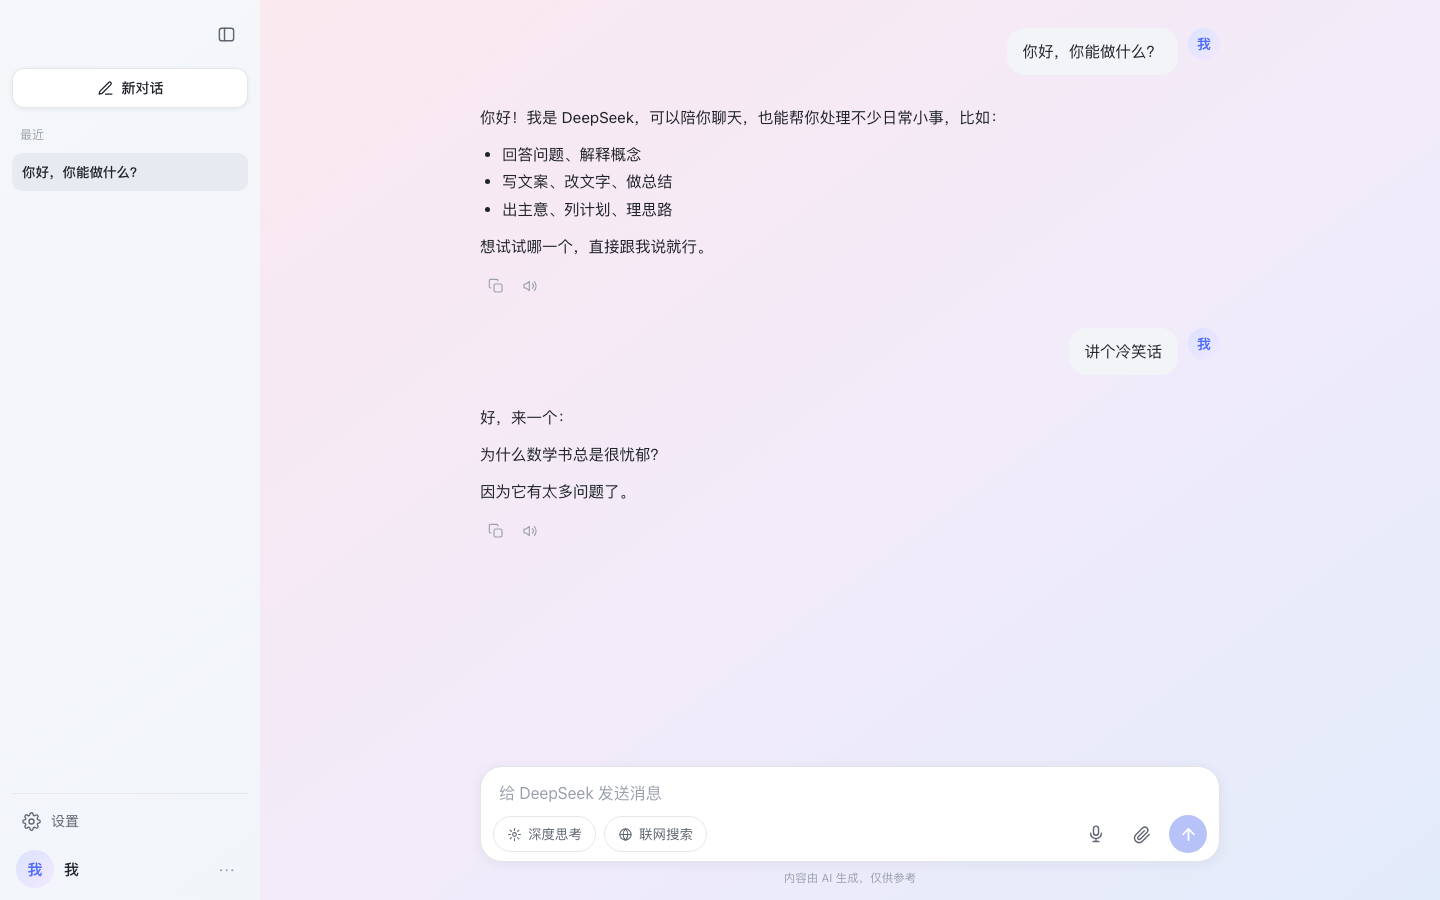
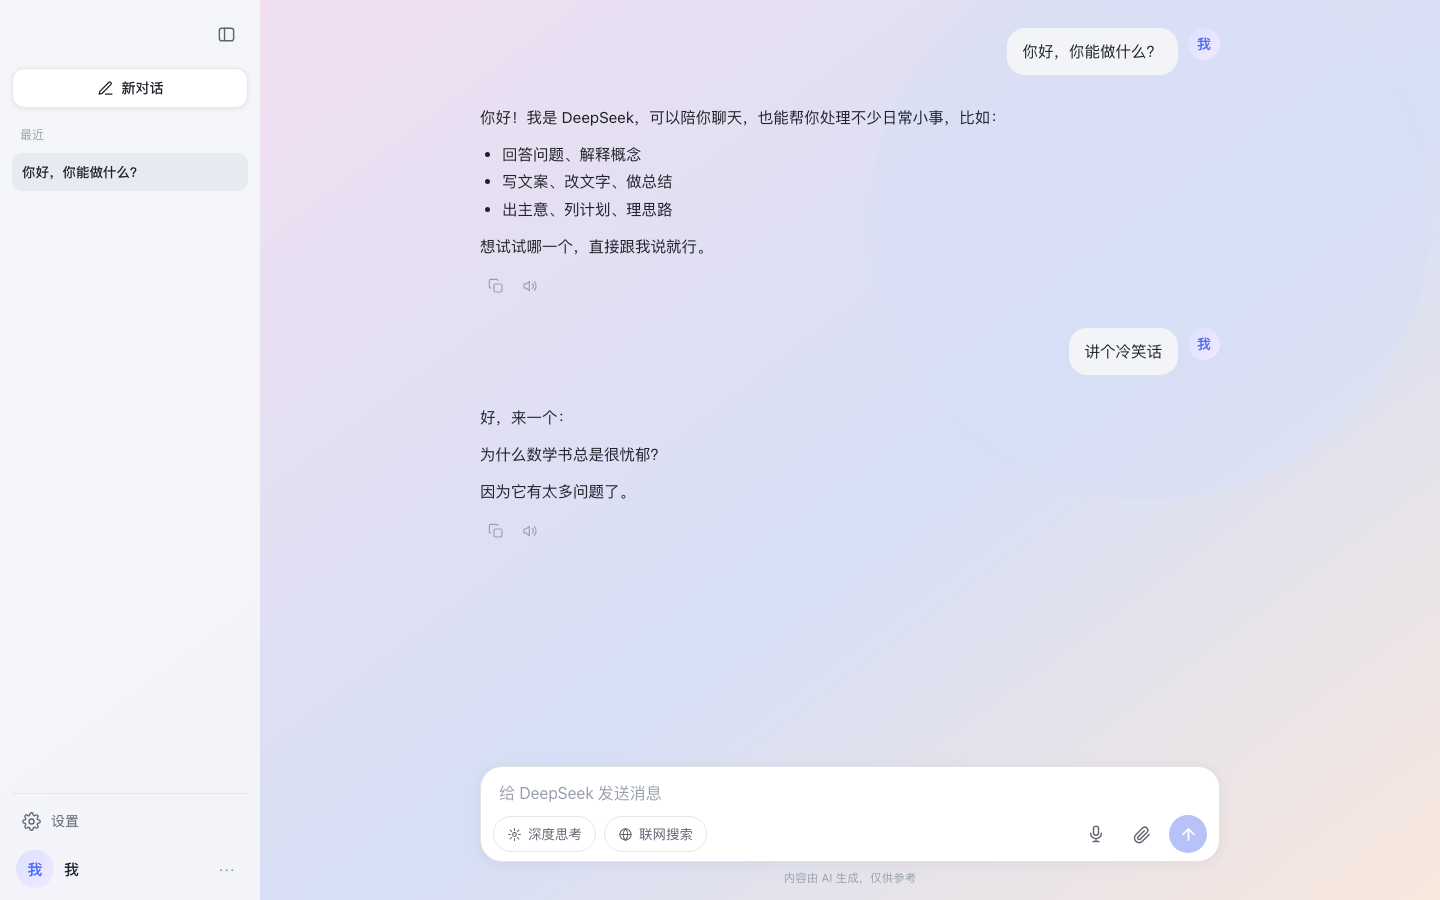
Add bubble colors, glass effect and welcome screen

Changed region(s): [[0.1562, 0.0, 1.0, 1.0], [0.8438, 0.84, 1.0, 1.0]]

diff --git a/index.html b/index.html
@@ -17,7 +17,7 @@
         --sb-bg:#f8f9fb; --sb-hover:#eef0f4; --sb-active:#e7eaf1;
         --bg:#ffffff; --text:#1f2329; --text-2:#5f6570; --text-3:#9aa0ab;
         --border:#e6e7eb; --bubble:#f3f4f8; --composer-border:#e3e4e8;
-        --veil:rgba(255,255,255,.42); --sb-veil:rgba(248,249,251,.9); --modal-bg:#ffffff; --input-bg:#ffffff;
+        --veil:rgba(255,255,255,.42); --sb-veil:rgba(248,249,251,.9); --modal-bg:#ffffff; --input-bg:#ffffff; --composer-bg:#ffffff;
         --danger:#f23f42; --shadow:0 12px 40px rgba(20,24,60,.14);
         --msg-font:15.5px;
       }
@@ -30,7 +30,7 @@
         --sb-bg:#17181c; --sb-hover:#22242a; --sb-active:#26282f;
         --bg:#1d1e23; --text:#e8e9ec; --text-2:#a6abb6; --text-3:#6f7580;
         --border:#2e3038; --bubble:#26272e; --composer-border:#34353d;
-        --veil:rgba(20,20,24,.43); --sb-veil:rgba(23,24,28,.92); --modal-bg:#23242a; --input-bg:#1b1c20;
+        --veil:rgba(20,20,24,.43); --sb-veil:rgba(23,24,28,.92); --modal-bg:#23242a; --input-bg:#1b1c20; --composer-bg:#23242a;
         --blue-soft:#26305c; --shadow:0 12px 40px rgba(0,0,0,.5);
       }
       body.fs-small{ --msg-font:14px; } body.fs-large{ --msg-font:17px; }
@@ -134,7 +134,7 @@
       .err-text{ color:var(--danger); }
 
       /* ============ Composer ============ */
-      #composer{ width:100%; background:var(--modal-bg); border:1px solid var(--composer-border); border-radius:22px; box-shadow:0 2px 14px rgba(30,35,70,.06); padding:12px 12px 8px; }
+      #composer{ width:100%; background:var(--composer-bg); border:1px solid var(--composer-border); border-radius:22px; box-shadow:0 2px 14px rgba(30,35,70,.06); padding:12px 12px 8px; }
       #attachPreview{ display:none; flex-wrap:wrap; gap:8px; padding:0 4px 8px; }
       #attachPreview.on{ display:flex; }
       .att-chip{ position:relative; width:58px; height:58px; border-radius:12px; overflow:hidden; border:1px solid var(--border); }
@@ -163,7 +163,7 @@
       /* ============ Settings modal ============ */
       #overlay{ position:fixed; inset:0; background:rgba(28,30,40,.45); backdrop-filter:blur(3px); z-index:50; display:none; align-items:center; justify-content:center; padding:16px; }
       #overlay.on{ display:flex; }
-      #settingsModal{ background:var(--modal-bg); width:780px; max-width:100%; height:520px; max-height:92dvh; border-radius:20px; box-shadow:var(--shadow); display:flex; flex-direction:column; overflow:hidden; }
+      #settingsModal{ background:var(--modal-bg); width:780px; max-width:100%; height:660px; max-height:92dvh; border-radius:20px; box-shadow:var(--shadow); display:flex; flex-direction:column; overflow:hidden; }
       .modal-head{ display:flex; align-items:center; justify-content:space-between; padding:18px 22px 6px; }
       .modal-head h2{ font-size:17px; font-weight:600; margin:0; }
       .modal-body{ display:flex; flex:1; min-height:0; padding:8px 22px 20px; gap:26px; }
@@ -195,6 +195,22 @@
       .bg-thumb.on{ display:block; }
       .btn-row{ display:flex; gap:8px; align-items:center; flex-wrap:wrap; justify-content:flex-end; }
 
+      .set-row input[type="color"]{ width:46px; height:34px; padding:3px; border:1px solid var(--border); border-radius:10px; background:var(--input-bg); cursor:pointer; }
+      body.glass .msg-row.user .msg-body,
+      body.glass #composer{
+        background:color-mix(in srgb, var(--bubble) 45%, transparent);
+        -webkit-backdrop-filter:blur(16px) saturate(180%);
+        backdrop-filter:blur(16px) saturate(180%);
+        border:1px solid rgba(255,255,255,.3);
+        box-shadow:0 8px 32px rgba(0,0,0,.1);
+      }
+      body.glass #composer{ background:color-mix(in srgb, var(--composer-bg) 45%, transparent); }
+      html[data-theme="dark"] body.glass .msg-row.user .msg-body,
+      html[data-theme="dark"] body.glass #composer{ border-color:rgba(255,255,255,.14); }
+      #splash{ position:fixed; inset:0; z-index:200; display:flex; align-items:center; justify-content:center;
+        background:var(--bg); color:var(--text); font-size:30px; font-weight:300; letter-spacing:.1em;
+        transition:opacity .5s ease; }
+      #splash.hide{ opacity:0; pointer-events:none; }
       #toast{ position:fixed; left:50%; bottom:28px; transform:translateX(-50%) translateY(20px); background:#26282e; color:#fff; font-size:13.5px; padding:10px 18px; border-radius:999px; z-index:99; opacity:0; pointer-events:none; transition:.25s; max-width:88vw; text-align:center; box-shadow:var(--shadow); }
       #toast.on{ opacity:1; transform:translateX(-50%) translateY(0); }
 
@@ -382,6 +398,21 @@
               </div>
             </div>
             <div class="set-row">
+              <div><div class="sr-t" data-i18n="bubbleColor">Bubble color</div></div>
+              <input type="color" id="bubbleColorInput" value="#f3f4f8" aria-label="Bubble color" />
+            </div>
+            <div class="set-row">
+              <div><div class="sr-t" data-i18n="composerColor">Input color</div></div>
+              <input type="color" id="composerColorInput" value="#ffffff" aria-label="Input color" />
+            </div>
+            <div class="set-row">
+              <div><div class="sr-t" data-i18n="glass">Frosted glass</div></div>
+              <div class="seg" id="glassSeg">
+                <button data-val="off" data-i18n="off">Off</button>
+                <button data-val="on" data-i18n="on">On</button>
+              </div>
+            </div>
+            <div class="set-row">
               <div>
                 <div class="sr-t" data-i18n="voice">Read-aloud voice</div>
                 <div class="sr-d" data-i18n="voiceD">Used by the speaker button on AI replies.</div>
@@ -466,6 +497,7 @@
     <input type="file" id="attachInput" accept="image/*" multiple hidden />
     <input type="file" id="importInput" accept=".json,application/json" hidden />
 
+    <div id="splash">welcome</div>
     <script>
     (function(){
       "use strict";
@@ -476,7 +508,7 @@
       function $(id){ return document.getElementById(id); }
 
       /* ---------- state ---------- */
-      var settings = { lang:"en", appearance:"light", font:"medium", typeface:"system", palette:"default", voice:"", location:"Hong Kong" };
+      var settings = { lang:"en", appearance:"light", font:"medium", typeface:"system", palette:"default", bubbleColor:"", composerColor:"", glass:"off", voice:"", location:"Hong Kong" };
       try{ var s = JSON.parse(lsGet(LS.settings)||"null"); if(s) settings = Object.assign(settings, s); }catch(e){}
       var chats = [];
       try{ chats = JSON.parse(lsGet(LS.chats)||"[]"); if(!Array.isArray(chats)) chats = []; }catch(e){ chats = []; }
@@ -491,8 +523,8 @@
 
       /* ---------- i18n ---------- */
       var I18N = {
-        en:{ newChat:"New chat", recent:"Recent", settings:"Settings", howHelp:"How can I help you?", deepThink:"DeepThink", search:"Search", general:"General", data:"Data", language:"Language", appearance:"Appearance", light:"Light", dark:"Dark", system:"System", fontSize:"Font size", small:"Small", medium:"Medium", large:"Large", voice:"Read-aloud voice", voiceD:"Used by the speaker button on AI replies.", location:"Location", background:"Chat background", backgroundD:"Your picture fills the chat area under a soft veil, so text stays readable. Saved in this browser.", sbBackground:"Sidebar background", sbBackgroundD:"Your picture fills the sidebar under a soft veil, so the text stays readable. Saved in this browser, separate from the chat background.", sbBgSaved:"Sidebar background saved", sbBgCleared:"Sidebar background removed", upload:"Upload", clear:"Clear", avatarRow:"Profile avatar", avatarRowD:"Shown at the top left and beside your messages. You can also tap the avatar in the sidebar.", apiTitle:"Enter an API Key to get started", apiD:"Get a key at platform.deepseek.com. It is stored only in this browser and sent only to api.deepseek.com.", importT:"Import chat history", importD:"Importing replaces all local chats. Supports the JSON file exported below.", exportT:"Export all chats", exportD:"Includes all chat history and locally stored images. Your API Key is not included.", deleteT:"Delete all chats", delete:"Delete", download:"Download", disclaimer:"AI-generated, for reference only", placeholder:"Message DeepSeek", placeholderMobile:"Enter a message", changeAvatar:"Change avatar", removeAvatar:"Remove avatar", avatarRemoved:"Avatar removed", noChats:"No conversations yet", profile:"My profile", tapAvatar:"Tap avatar to change", thinking:"DeepThink", defaultVoice:"Default voice", storageFull:"Storage is full — oldest data may not save.", needKey:"Add your DeepSeek API Key in Settings → Data first.", bgSaved:"Background saved", bgCleared:"Background removed", avatarSaved:"Avatar updated", deletedAll:"All chats deleted", tapAgain:"Tap again to confirm", exported:"Chats exported", importOk:"Chat history imported", importBad:"That file could not be imported.", copied:"Copied", voiceUnsupported:"Voice input is not supported in this browser.", listening:"Listening… speak now", stop:"Stop", send:"Send", typeface:"Typeface", tfSystem:"System", tfSerif:"Serif", tfMono:"Mono", palette:"Palette", palDefault:"Default", palCat:"Lavender", palAyu:"Amber", palZhu:"Jade", palDra:"Violet", palFle:"Teal" },
-        zh:{ newChat:"新对话", recent:"最近", settings:"设置", howHelp:"有什么可以帮你的？", deepThink:"深度思考", search:"联网搜索", general:"通用", data:"数据", language:"语言", appearance:"外观", light:"浅色", dark:"深色", system:"跟随系统", fontSize:"字体大小", small:"小", medium:"中", large:"大", voice:"朗读声音", voiceD:"用于 AI 回复旁边的朗读按钮。", location:"位置", background:"聊天背景", backgroundD:"图片铺满聊天区，上面有一层淡纱，文字照样看得清。存在这个浏览器里。", sbBackground:"侧边栏背景", sbBackgroundD:"图片铺满侧边栏，上面有一层淡纱，字照样看得清。存在这个浏览器里，和聊天背景分开存。", sbBgSaved:"侧边栏背景已保存", sbBgCleared:"侧边栏背景已清除", upload:"上传", clear:"清除", avatarRow:"我的头像", avatarRowD:"显示在左上角和你发的消息旁边，也可以直接点侧边栏的头像换。", apiTitle:"输入 API Key 开始使用", apiD:"在 platform.deepseek.com 获取。只存在这个浏览器里，只发给 api.deepseek.com。", importT:"导入聊天记录", importD:"导入会替换全部本地对话，支持下方导出的 JSON 文件。", exportT:"导出全部对话", exportD:"包含全部聊天记录和本地图片，不包含你的 API Key。", deleteT:"删除全部对话", delete:"删除", download:"下载", disclaimer:"内容由 AI 生成，仅供参考", placeholder:"给 DeepSeek 发送消息", placeholderMobile:"输入消息", changeAvatar:"更换头像", removeAvatar:"删除头像", avatarRemoved:"头像已删除", noChats:"还没有对话", profile:"我的资料", tapAvatar:"点头像更换", thinking:"深度思考", defaultVoice:"默认声音", storageFull:"浏览器存储满了，旧数据可能存不下。", needKey:"先在 设置 → 数据 里填你的 DeepSeek API Key。", bgSaved:"背景已保存", bgCleared:"背景已清除", avatarSaved:"头像已更新", deletedAll:"已删除全部对话", tapAgain:"再点一次确认", exported:"对话已导出", importOk:"聊天记录已导入", importBad:"这个文件导入不了。", copied:"已复制", voiceUnsupported:"这个浏览器不支持语音输入。", listening:"在听了…开始说吧", stop:"停止", send:"发送", typeface:"字体样式", tfSystem:"系统", tfSerif:"宋体", tfMono:"等宽", palette:"配色", palDefault:"默认", palCat:"藕紫", palAyu:"暖橙", palZhu:"竹青", palDra:"墨紫", palFle:"青碧" }
+        en:{ newChat:"New chat", recent:"Recent", settings:"Settings", howHelp:"How can I help you?", deepThink:"DeepThink", search:"Search", general:"General", data:"Data", language:"Language", appearance:"Appearance", light:"Light", dark:"Dark", system:"System", fontSize:"Font size", small:"Small", medium:"Medium", large:"Large", voice:"Read-aloud voice", voiceD:"Used by the speaker button on AI replies.", location:"Location", background:"Chat background", backgroundD:"Your picture fills the chat area under a soft veil, so text stays readable. Saved in this browser.", sbBackground:"Sidebar background", sbBackgroundD:"Your picture fills the sidebar under a soft veil, so the text stays readable. Saved in this browser, separate from the chat background.", sbBgSaved:"Sidebar background saved", sbBgCleared:"Sidebar background removed", upload:"Upload", clear:"Clear", avatarRow:"Profile avatar", avatarRowD:"Shown at the top left and beside your messages. You can also tap the avatar in the sidebar.", apiTitle:"Enter an API Key to get started", apiD:"Get a key at platform.deepseek.com. It is stored only in this browser and sent only to api.deepseek.com.", importT:"Import chat history", importD:"Importing replaces all local chats. Supports the JSON file exported below.", exportT:"Export all chats", exportD:"Includes all chat history and locally stored images. Your API Key is not included.", deleteT:"Delete all chats", delete:"Delete", download:"Download", disclaimer:"AI-generated, for reference only", placeholder:"Message DeepSeek", placeholderMobile:"Enter a message", changeAvatar:"Change avatar", removeAvatar:"Remove avatar", avatarRemoved:"Avatar removed", noChats:"No conversations yet", profile:"My profile", tapAvatar:"Tap avatar to change", thinking:"DeepThink", defaultVoice:"Default voice", storageFull:"Storage is full — oldest data may not save.", needKey:"Add your DeepSeek API Key in Settings → Data first.", bgSaved:"Background saved", bgCleared:"Background removed", avatarSaved:"Avatar updated", deletedAll:"All chats deleted", tapAgain:"Tap again to confirm", exported:"Chats exported", importOk:"Chat history imported", importBad:"That file could not be imported.", copied:"Copied", voiceUnsupported:"Voice input is not supported in this browser.", listening:"Listening… speak now", stop:"Stop", send:"Send", typeface:"Typeface", tfSystem:"System", tfSerif:"Serif", tfMono:"Mono", palette:"Palette", palDefault:"Default", palCat:"Lavender", palAyu:"Amber", palZhu:"Jade", palDra:"Violet", palFle:"Teal", bubbleColor:"Bubble color", composerColor:"Input color", glass:"Frosted glass", on:"On", off:"Off" },
+        zh:{ newChat:"新对话", recent:"最近", settings:"设置", howHelp:"有什么可以帮你的？", deepThink:"深度思考", search:"联网搜索", general:"通用", data:"数据", language:"语言", appearance:"外观", light:"浅色", dark:"深色", system:"跟随系统", fontSize:"字体大小", small:"小", medium:"中", large:"大", voice:"朗读声音", voiceD:"用于 AI 回复旁边的朗读按钮。", location:"位置", background:"聊天背景", backgroundD:"图片铺满聊天区，上面有一层淡纱，文字照样看得清。存在这个浏览器里。", sbBackground:"侧边栏背景", sbBackgroundD:"图片铺满侧边栏，上面有一层淡纱，字照样看得清。存在这个浏览器里，和聊天背景分开存。", sbBgSaved:"侧边栏背景已保存", sbBgCleared:"侧边栏背景已清除", upload:"上传", clear:"清除", avatarRow:"我的头像", avatarRowD:"显示在左上角和你发的消息旁边，也可以直接点侧边栏的头像换。", apiTitle:"输入 API Key 开始使用", apiD:"在 platform.deepseek.com 获取。只存在这个浏览器里，只发给 api.deepseek.com。", importT:"导入聊天记录", importD:"导入会替换全部本地对话，支持下方导出的 JSON 文件。", exportT:"导出全部对话", exportD:"包含全部聊天记录和本地图片，不包含你的 API Key。", deleteT:"删除全部对话", delete:"删除", download:"下载", disclaimer:"内容由 AI 生成，仅供参考", placeholder:"给 DeepSeek 发送消息", placeholderMobile:"输入消息", changeAvatar:"更换头像", removeAvatar:"删除头像", avatarRemoved:"头像已删除", noChats:"还没有对话", profile:"我的资料", tapAvatar:"点头像更换", thinking:"深度思考", defaultVoice:"默认声音", storageFull:"浏览器存储满了，旧数据可能存不下。", needKey:"先在 设置 → 数据 里填你的 DeepSeek API Key。", bgSaved:"背景已保存", bgCleared:"背景已清除", avatarSaved:"头像已更新", deletedAll:"已删除全部对话", tapAgain:"再点一次确认", exported:"对话已导出", importOk:"聊天记录已导入", importBad:"这个文件导入不了。", copied:"已复制", voiceUnsupported:"这个浏览器不支持语音输入。", listening:"在听了…开始说吧", stop:"停止", send:"发送", typeface:"字体样式", tfSystem:"系统", tfSerif:"宋体", tfMono:"等宽", palette:"配色", palDefault:"默认", palCat:"藕紫", palAyu:"暖橙", palZhu:"竹青", palDra:"墨紫", palFle:"青碧", bubbleColor:"气泡颜色", composerColor:"输入框颜色", glass:"毛玻璃", on:"开", off:"关" }
       };
       function t(k){ return (I18N[settings.lang]||I18N.en)[k] || I18N.en[k] || k; }
       function applyPlaceholder(){ var inp = $("inputBox"); if(!inp) return; inp.placeholder = (window.innerWidth <= 720) ? t("placeholderMobile") : t("placeholder"); }
@@ -625,6 +657,22 @@
       }
       document.querySelectorAll("#typefaceSeg button").forEach(function(b){ b.addEventListener("click", function(){ settings.typeface = b.getAttribute("data-val"); saveSettings(); applyTypeface(); }); });
       document.querySelectorAll("#paletteSeg button").forEach(function(b){ b.addEventListener("click", function(){ settings.palette = b.getAttribute("data-val"); saveSettings(); applyPalette(); }); });
+      function applyColors(){
+        var root = document.documentElement;
+        if(settings.bubbleColor) root.style.setProperty("--bubble", settings.bubbleColor);
+        else root.style.removeProperty("--bubble");
+        if(settings.composerColor) root.style.setProperty("--composer-bg", settings.composerColor);
+        else root.style.removeProperty("--composer-bg");
+        $("bubbleColorInput").value = settings.bubbleColor || "#f3f4f8";
+        $("composerColorInput").value = settings.composerColor || "#ffffff";
+      }
+      function applyGlass(){
+        document.body.classList.toggle("glass", settings.glass === "on");
+        document.querySelectorAll("#glassSeg button").forEach(function(b){ b.classList.toggle("active", b.getAttribute("data-val") === settings.glass); });
+      }
+      $("bubbleColorInput").addEventListener("input", function(){ settings.bubbleColor = this.value; saveSettings(); applyColors(); });
+      $("composerColorInput").addEventListener("input", function(){ settings.composerColor = this.value; saveSettings(); applyColors(); });
+      document.querySelectorAll("#glassSeg button").forEach(function(b){ b.addEventListener("click", function(){ settings.glass = b.getAttribute("data-val"); saveSettings(); applyGlass(); }); });
       /* ---------- voices ---------- */
       function loadVoices(){
         var sel = $("voiceSelect"); if(!("speechSynthesis" in window)){ sel.innerHTML = ""; var o = document.createElement("option"); o.textContent = t("defaultVoice"); sel.appendChild(o); return; }
@@ -970,7 +1018,7 @@
       /* ---------- init ---------- */
       $("langSelect").value = settings.lang;
       $("locationInput").value = settings.location || "Hong Kong";
-      applyAppearance(); applyFont(); applyTypeface(); applyPalette(); applyLang(); loadVoices();
+      applyAppearance(); applyFont(); applyTypeface(); applyPalette(); applyColors(); applyGlass(); applyLang(); loadVoices();
       applyAvatar(); applyBackground(); applySbBackground();
       /* Seed one fixed demo conversation — only on the very first open,
          when there is no local chat history at all. The seeded flag stays
@@ -997,6 +1045,8 @@
       }
       if(!currentChat() && chats.length){ currentId = chats.slice().sort(function(a,b){ return (b.updated||0)-(a.updated||0); })[0].id; }
       renderAll(); autoGrow();
+      setTimeout(function(){ $("splash").classList.add("hide"); }, 900);
+      setTimeout(function(){ var sp = $("splash"); if(sp) sp.remove(); }, 1500);
     })();
     </script>
   </body>

diff --git a/README.md b/README.md
@@ -14,14 +14,19 @@
 | --- | --- |
 | ![独立背景与薄白纱](docs/screenshots/03-backgrounds.png) | ![配色与字体](docs/screenshots/04-palette-font.png) |
 
+![毛玻璃效果](docs/screenshots/05-glass.png)
+
 ## 功能
 
 - **头像**：点左下角头像换图，自己发的消息旁同步
 - **背景**：聊天区与侧边栏各传一张图，互不影响，可随时清除
 - **字体**：正文字号小 / 中 / 大；字形系统 / 宋体 / 等宽
 - **配色**：5 套预设，点一下切换
+- **气泡 / 输入框颜色**：设置里各一个取色器，随时改
+- **毛玻璃**：开启后气泡与输入框变成半透明磨砂，配背景图更明显
 - **薄白纱**：背景上方一层半透明遮罩，明暗主题各一套，保证文字可读
 - **明暗主题、中英界面**
+- **欢迎页**：打开时先显示 `welcome`，随后淡出
 - **演示对话**：首次打开自带一段示例对话
 - **真实对话**：填入自己的 DeepSeek API Key 后可用；Key 只存在当前浏览器，只发给 `api.deepseek.com`
 
@@ -46,7 +51,7 @@
 | `LICENSE` | 上游 MIT 许可全文 |
 | `docs/screenshots/` | 界面截图 |
 
-样式集中在 `index.html` 的 `<style>`：`--veil` / `--sb-veil` 控制白纱，`--msg-font` 控制字号，`html[data-palette]` 控制配色，`body.tf-*` 控制字体栈。文案在 `<script>` 的 `I18N` 字典，中英两份。除 `api.deepseek.com` 外没有网络请求；无第三方库、CDN、外部字体或图片，字体走系统字体栈，语音能力由浏览器提供。
+样式集中在 `index.html` 的 `<style>`：`--veil` / `--sb-veil` 控制白纱，`--msg-font` 控制字号，`html[data-palette]` 控制配色，`body.tf-*` 控制字体栈，`--bubble` / `--composer-bg` 控制气泡与输入框颜色，`body.glass` 控制毛玻璃，`#splash` 是欢迎页。文案在 `<script>` 的 `I18N` 字典，中英两份。除 `api.deepseek.com` 外没有网络请求；无第三方库、CDN、外部字体或图片，字体走系统字体栈，语音能力由浏览器提供。
 
 ## 关于
 
